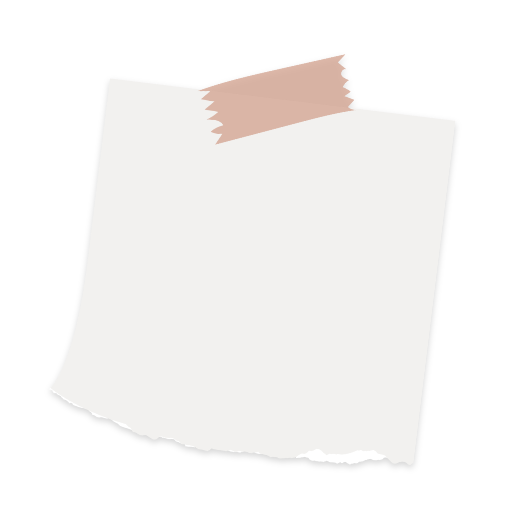
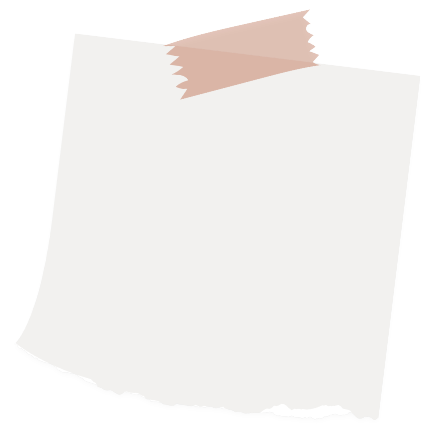
수정

Changed region(s): [[0.3876, 0.0, 0.7454, 0.2968]]

diff --git a/css/style.css b/css/style.css
@@ -246,7 +246,8 @@
 }
 .postit_wrapper{
     width: 100%;
-    padding: 40px 20px;
+    height: 100%;
+    padding:50px 20px;
     position: relative;
     display: flex;
     flex-direction: column;
@@ -281,7 +282,7 @@
 
 .postit01{
     background:url('../img/post04.png') no-repeat;
-    width: 285px;
+    width: 290px;
     height: 300px;
     background-size: contain;
     box-sizing: border-box;
@@ -293,11 +294,11 @@
 
 .postit02{
     background: url('../img/post05.png') no-repeat;
-    width: 285px;
+    width: 300px;
     height: 300px;
     background-size: contain;
     box-sizing: border-box;
-    margin-top: -27%;
+    margin-top: -13%;
 }
 
 .postit02 p{
@@ -334,11 +335,11 @@
 
 .postit05{
     background:url('../img/post01.png') no-repeat;
-    width: 285px;
-    height: 300px;
+    width: 300px;
+    height: 315px;
     background-size: contain;
     box-sizing: border-box;
-    margin-top: -22%;
+    margin-top: -19%;
 }
 
 .postit05 p{
@@ -348,7 +349,7 @@
 /* section03 */
 
 .section03{
-    height: 1000px;
+    height: 1100px;
     background: url('../img/back02.jpg') no-repeat;
     background-size: cover;
 }
@@ -383,7 +384,7 @@
 /* section04 */
 
 .section04{
-    height: 1200px;
+    height: 1500px;
     background: url('../img/back03.jpg') no-repeat;
     background-size: cover;
 }
@@ -400,8 +401,8 @@
 
 
 .se04_slide_list{
-    width: 280px;
-    height: 240px;
+    width: 100%;
+    aspect-ratio: 1/0.9;
     border-radius: 9px;
     margin: 0 auto 10px;
 }
@@ -414,7 +415,7 @@ border-radius: 15px;
 }
 /* section05 */
 .section05{
-    height:900px;
+    height:1000px;
     background: url('../img/back04.jpg') no-repeat;
     background-size: cover;
 }
@@ -428,10 +429,10 @@ border-radius: 15px;
 .se_step_list{
     display: flex;
     align-content: center;
-    margin-top: 20px;
+    margin-top: 40px;
     position: relative;
     flex-wrap: wrap;
-    justify-content: space-between;
+    justify-content: space-evenly;
 }
 
 
@@ -493,7 +494,7 @@ border-radius: 15px;
 
 /* section06 */
 .section06{
-    height:600px;
+    height:700px;
     background: url('../img/back05.jpg') no-repeat;
     background-size: cover;
 }

diff --git a/index.html b/index.html
@@ -95,8 +95,8 @@
                     <br>후원감사증서를 <br> 보내드립니다. 
                 </div>
                 <div class="se_sub_co">
-                    후원감사증서는<Br> 아기에게 남기고 싶은 메시지와 아기의 좋은 날이 담긴 사진을<br> 보관할 수 있도록
-                    만들어드립니다.<br> 먼 훗날, 아기가 성장해 읽게 될 날을 그리며 편지를 써보세요.
+                    후원감사증서는<Br> 아기에게 남기고 싶은 메시지와 <br>아기의 좋은 날이 담긴 사진을<br> 보관할 수 있도록
+                    만들어드립니다.<br> 먼 훗날, 아기가 성장해 읽게 될 <br>날을 그리며 편지를 써보세요.
                 </div>
             </div>
 
@@ -133,7 +133,7 @@
                 
                 <div class="se_sub_co">
                     30만원 이상 후원해 주신 경우, 
-                    <br>감사 선물 수령 주소 및 아기 블랭킷에 새겨질 문구 확인을 위한 문자가 발송됩니다. 
+                    <br>감사 선물 수령 주소 및 <br>아기 블랭킷에 새겨질 문구 확인을 <br> 위한 문자가 발송됩니다. 
                 </div>
 
                 <div class="se_step_list">
